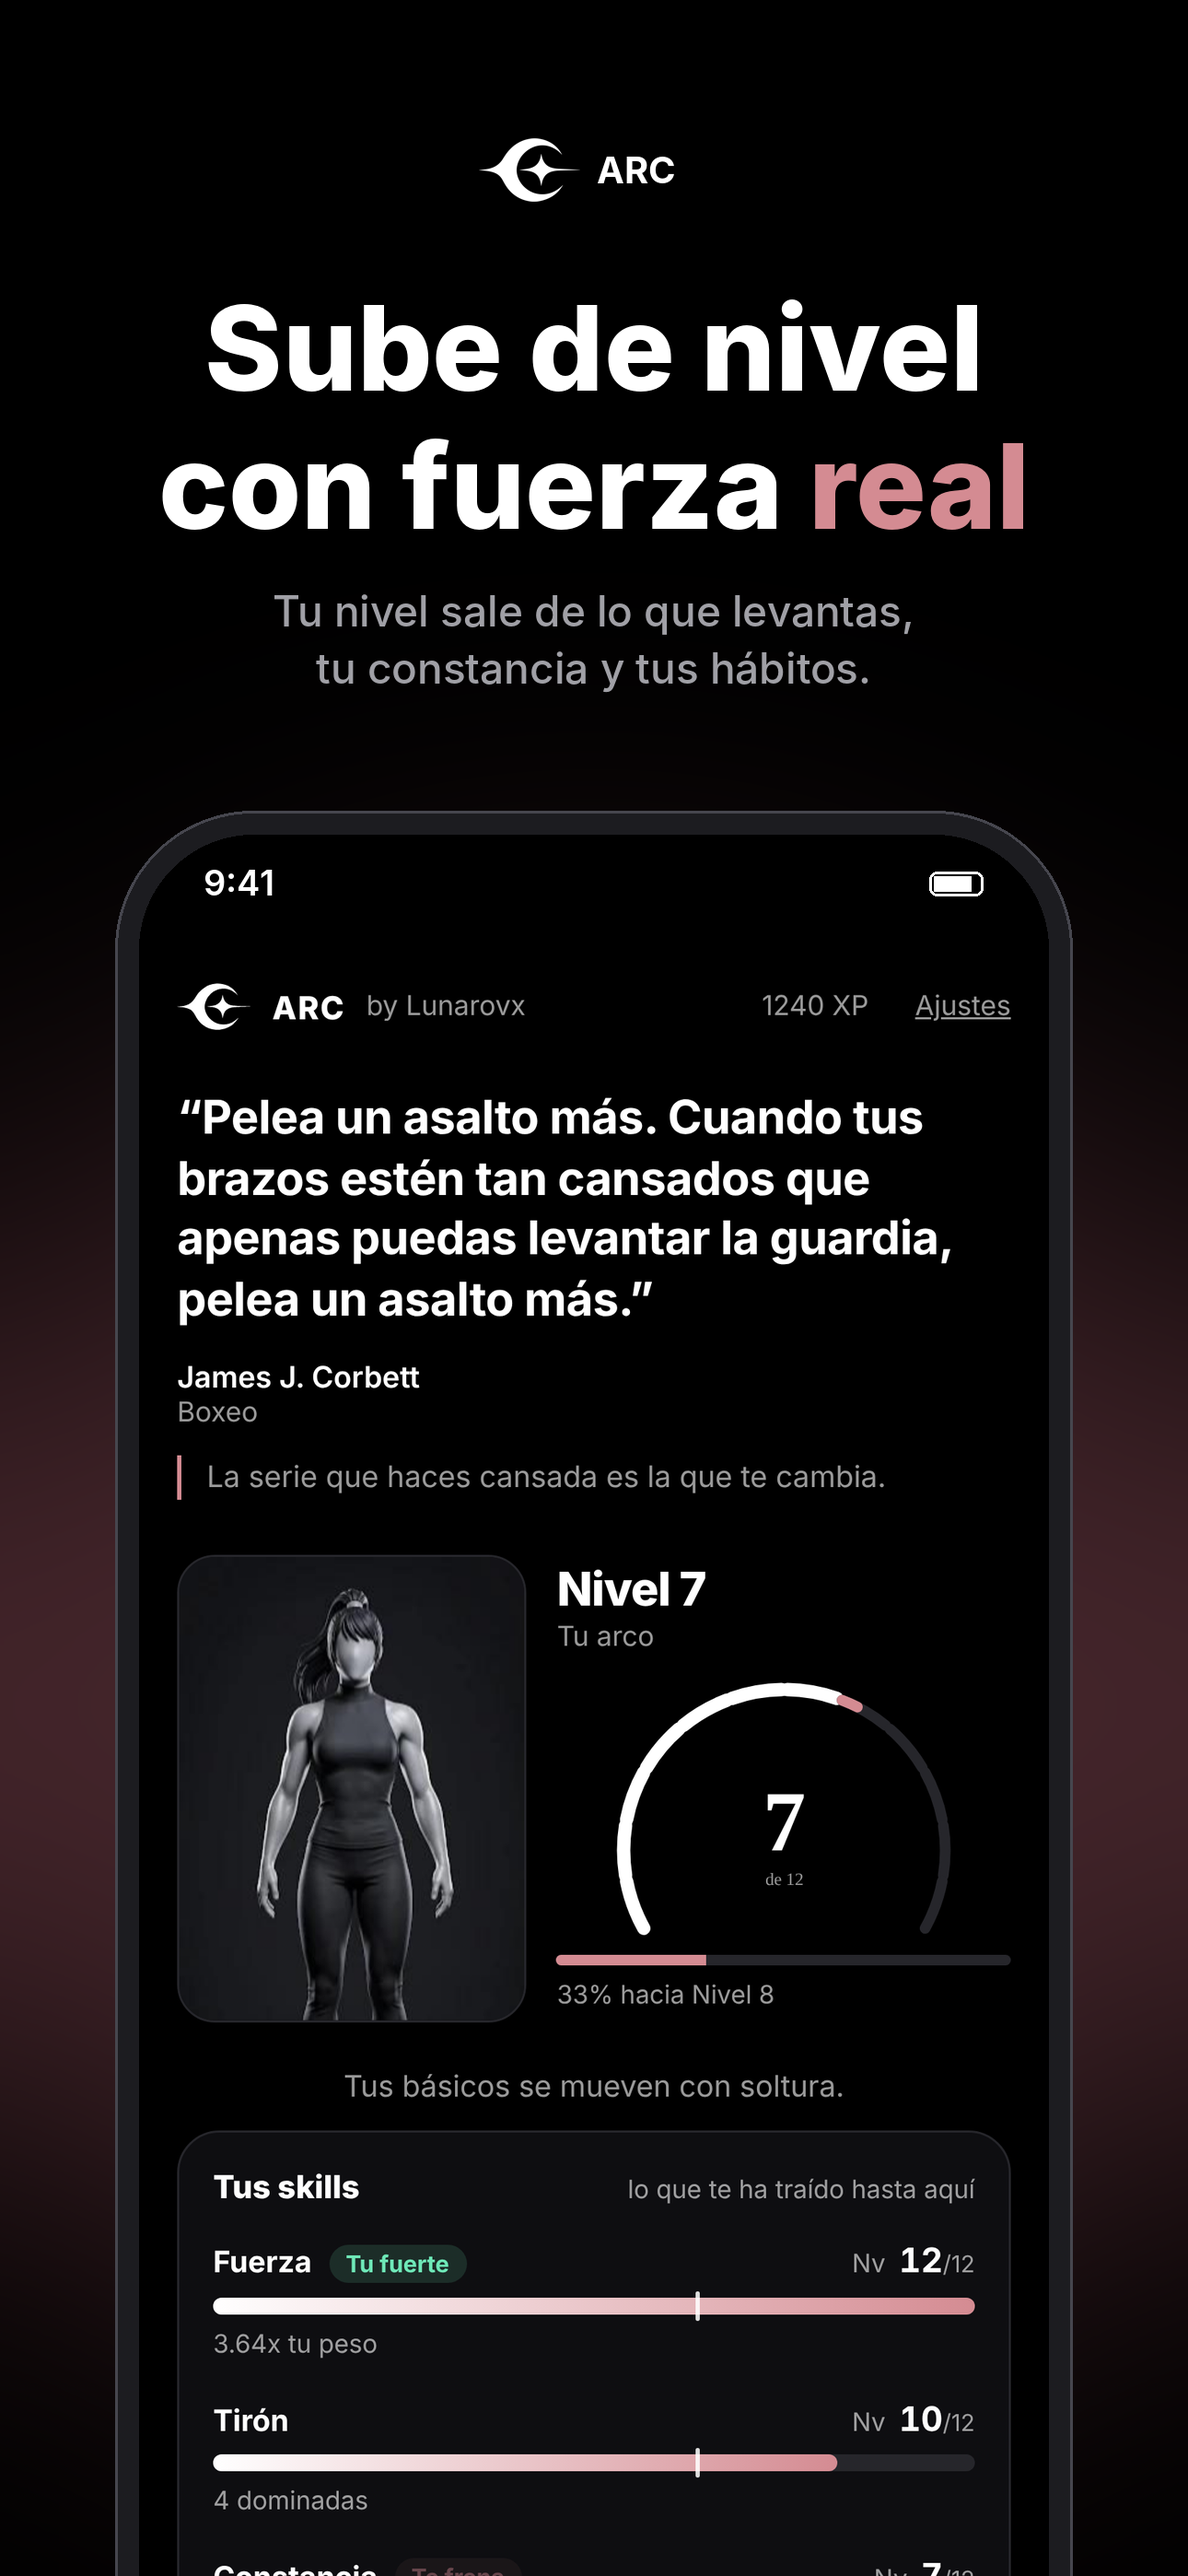
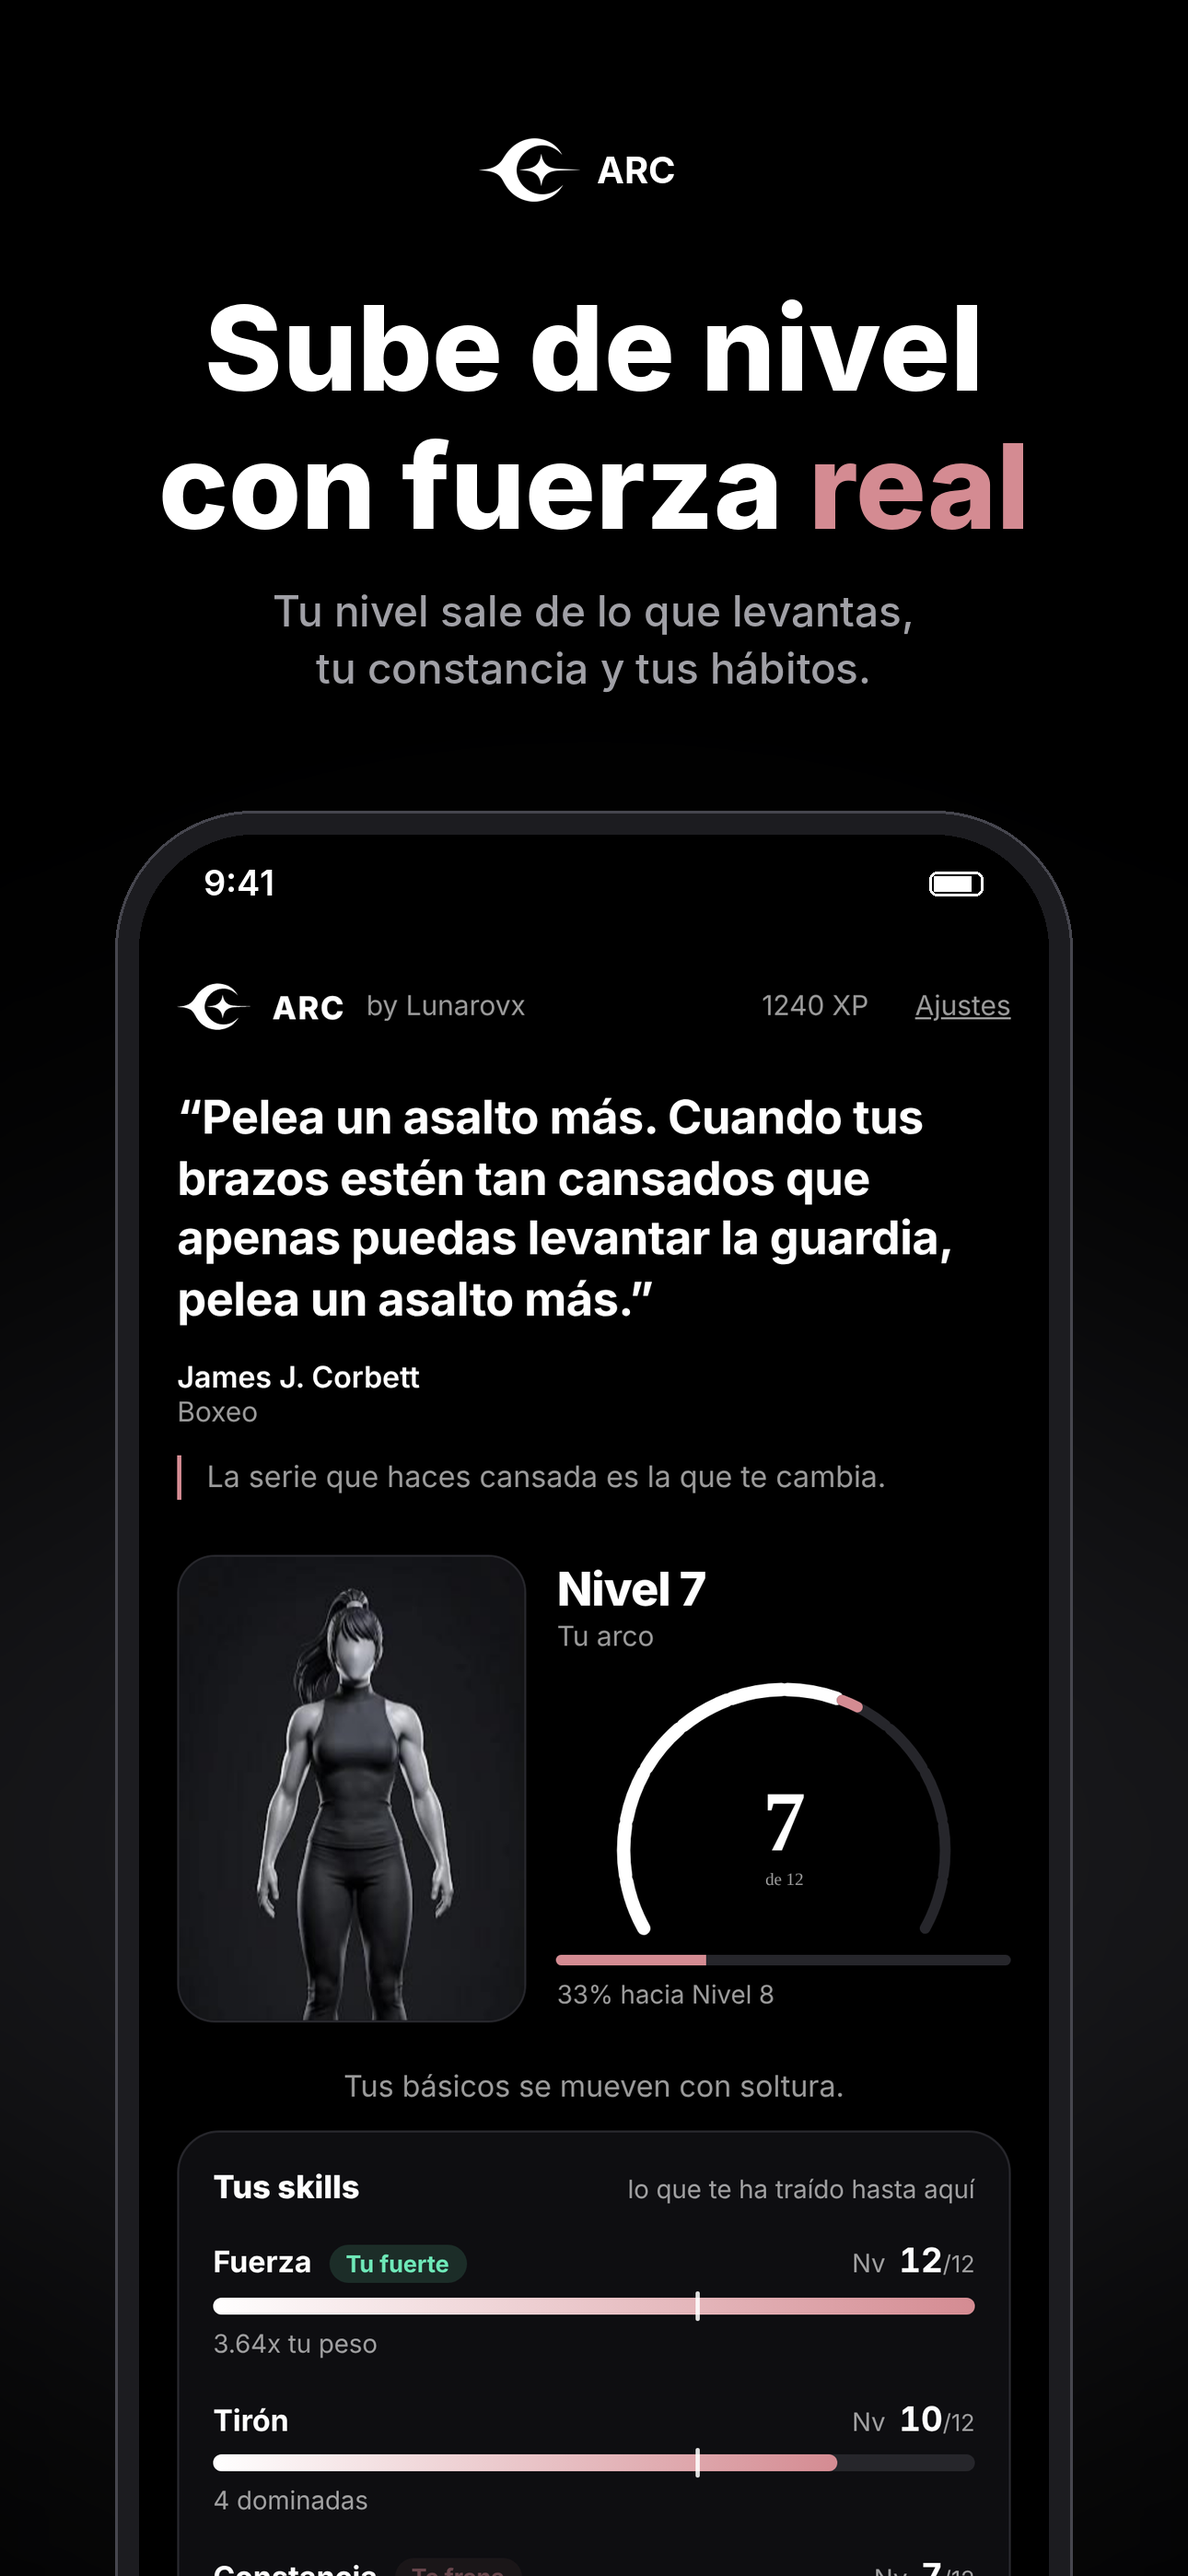
Capturas y cabecera en negro puro
Claude-Session: https://claude.ai/code/session_01YbzsCEJorLLnqfp1NVcty4

Changed region(s): [[0.8992, 0.4667, 1.0, 0.809], [0.0, 0.4667, 0.124, 0.809]]

diff --git a/marketing/header2.py b/marketing/header2.py
@@ -2,7 +2,7 @@ from PIL import Image, ImageDraw, ImageFont, ImageFilter
 W,H=3840,1646; F="/usr/share/fonts/opentype/inter/"
 PINK=(212,139,146); WHITE=(255,255,255); DIM=(165,165,172)
 c=Image.new("RGB",(W,H),(0,0,0))
-g=Image.new("RGB",(W,H),(0,0,0)); ImageDraw.Draw(g).ellipse((1100,300,2740,1900),fill=(85,44,52)); g=g.filter(ImageFilter.GaussianBlur(320)); c=Image.blend(c,g,1)
+g=Image.new("RGB",(W,H),(0,0,0)); ImageDraw.Draw(g).ellipse((1300,350,2540,1500),fill=(26,26,30)); g=g.filter(ImageFilter.GaussianBlur(300)); c=Image.blend(c,g,1)
 def rounded(im,r):
     m=Image.new("L",im.size,0); ImageDraw.Draw(m).rounded_rectangle((0,0,im.size[0]-1,im.size[1]-1),r,fill=255); return m
 def phone(src,crop=None,w=600):
@@ -12,7 +12,7 @@ def phone(src,crop=None,w=600):
     scr=Image.new("RGB",(w,sh),(0,0,0)); scr.paste(img,(0,70))
     b=22; ph=Image.new("RGB",(w+2*b,sh+2*b),(30,30,34)); ph.paste(scr,(b,b),rounded(scr,90)); return ph
 # móviles a los lados (decorativos)
-for (s,cr),x,y,a in [(("rutina.jpg",None),-60,380,0.5),(("registro-series.jpg",None),620,260,0.8),(("nutricion.png",None),2576,260,0.8),(("video-tecnica.jpg",(270,232,625,858)),3256,380,0.5)]:
+for (s,cr),x,y,a in [(("rutina.jpg",None),-60,380,0.35),(("registro-series.jpg",None),620,260,0.6),(("nutricion.png",None),2576,260,0.6),(("video-tecnica.jpg",(270,232,625,858)),3256,380,0.35)]:
     p=phone(s,cr); dark=Image.new("RGB",p.size,(0,0,0)); p=Image.blend(dark,p,a)
     c.paste(p,(x,y),rounded(p,110))
 # centro: logo + titular (zona segura central)

diff --git a/marketing/make_slides.py b/marketing/make_slides.py
@@ -22,7 +22,7 @@ def rounded(im, r):
 def slide(src, crop, head, sub, out):
     c=Image.new("RGB",(W,H),(0,0,0))
     # glow
-    g=Image.new("RGB",(W,H),(0,0,0)); gd=ImageDraw.Draw(g); gd.ellipse((W//2-700,1100,W//2+700,2600),fill=(70,38,44)); g=g.filter(ImageFilter.GaussianBlur(220)); c=Image.blend(c,g,1.0)
+    g=Image.new("RGB",(W,H),(0,0,0)); gd=ImageDraw.Draw(g); gd.ellipse((W//2-650,1300,W//2+650,2700),fill=(30,30,34)); g=g.filter(ImageFilter.GaussianBlur(260)); c=Image.blend(c,g,1.0)
     d=ImageDraw.Draw(c)
     # logo
     logo=Image.open("raw/logo-mark.png").convert("RGBA"); lw=110; logo=logo.resize((lw,int(logo.size[1]*lw/logo.size[0])))
